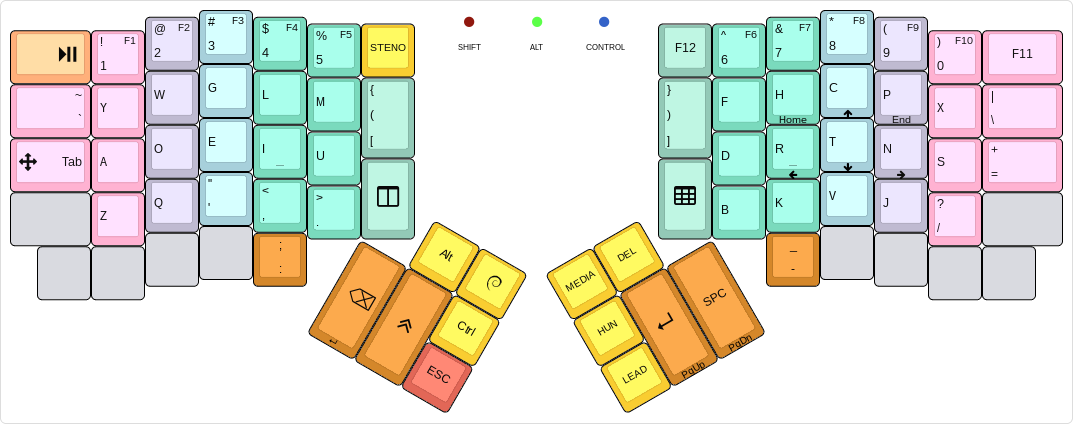
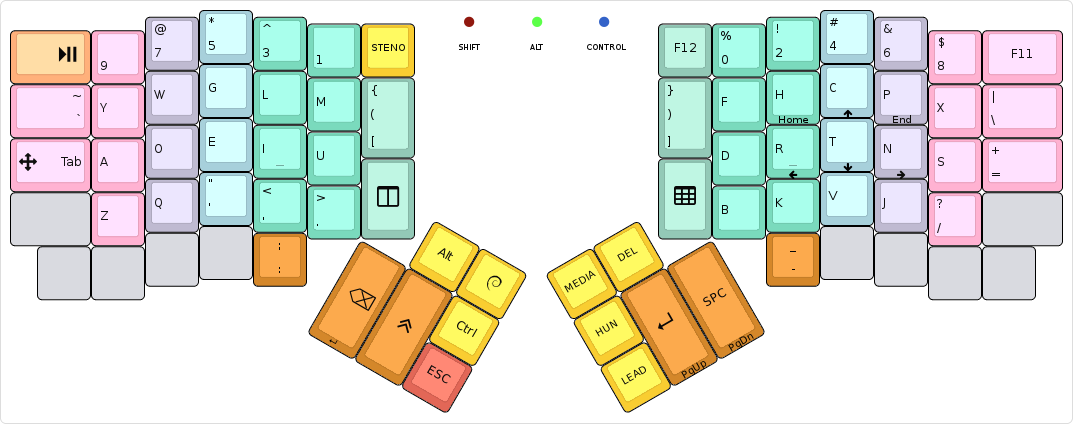
ADORE: Number/symbol row rearrangement
Rearranged both the numbers and the symbols for easier, better access.
While not final, this fixes #89.

diff --git a/keymap.c b/keymap.c
@@ -64,6 +64,18 @@ enum {
   HU_UE, // Ü
   HU_OEE, // Ő
   HU_UEE, // Ű
+
+  // number/symbol keys
+  A_1, // 1
+  A_2, // 2
+  A_3, // ...
+  A_4,
+  A_5,
+  A_6,
+  A_7,
+  A_8,
+  A_9,
+  A_0,
 };
 
 /* Fn keys */
@@ -115,6 +127,8 @@ bool log_enable = false;
 #endif
 
 bool time_travel = false;
+
+static uint8_t is_adore = 0;
 
 /* The Keymap */
 
@@ -168,7 +182,7 @@ const uint16_t PROGMEM keymaps[][MATRIX_ROWS][MATRIX_COLS] = {
 /* Keymap 1: Adore layer
  *
  * ,-----------------------------------------------------.           ,-----------------------------------------------------.
- * | Play/Pause| 1 F1 | 2 F2 | 3 F3 | 4 F4 | 5 F5 | Plvr |           |  F12 | 6 F6 | 7 F7 | 8 F8 | 9 F9 | 0 F10|       F11 |
+ * | Play/Pause| 9    | 7  @ | 5  * | 3  ^ | 1    | Plvr |           |  F12 | 0  % | 2  ! | 4  # | 6  & | 8  $ |       F11 |
  * |-----------+------+------+------+------+-------------|           |------+------+------+------+------+------+-----------|
  * |        `~ |   Y  |   W  |   G  |   L  |   M  |   (  |           |  )   |   F  |   H  |   C  |   P  |  X   | \         |
  * |-----------+------+------+------+------+------|   [  |           |  ]   |------+------+------+------+------+-----------|
@@ -188,7 +202,7 @@ const uint16_t PROGMEM keymaps[][MATRIX_ROWS][MATRIX_COLS] = {
  */
 [ADORE] = KEYMAP(
 // left hand
- KC_MPLY            ,TD(KF_1)    ,TD(KF_2)    ,TD(KF_3),TD(KF_4),TD(KF_5),M(A_PLVR)
+ KC_MPLY            ,M(A_9)      ,M(A_7)      ,M(A_5)  ,M(A_3)  ,M(A_1) ,M(A_PLVR)
 ,KC_GRV             ,KC_Y        ,KC_W        ,KC_G    ,KC_L    ,KC_M   ,TD(CT_LBP)
 ,TD(CT_TA)          ,KC_A        ,KC_O        ,KC_E    ,KC_I    ,KC_U
 ,KC_NO              ,KC_Z        ,KC_Q        ,KC_QUOT ,KC_COMM ,KC_DOT ,TD(CT_TMUX)
@@ -199,11 +213,11 @@ const uint16_t PROGMEM keymaps[][MATRIX_ROWS][MATRIX_COLS] = {
                                                     ,KC_BSPC,F(F_SFT),KC_ESC
 
                                                                 // right hand
-                                                               ,KC_F12    ,TD(KF_6),TD(KF_7),TD(KF_8),TD(KF_9),TD(KF_10),KC_F11
-                                                               ,TD(CT_RBP),KC_F    ,KC_H    ,KC_C    ,KC_P    ,KC_X     ,KC_BSLS
-                                                                          ,KC_D    ,KC_R    ,KC_T    ,KC_N    ,KC_S     ,KC_EQL
-                                                               ,TD(CT_TPS),KC_B    ,KC_K    ,KC_V    ,KC_J    ,KC_SLSH  ,KC_NO
-                                                                                   ,KC_MINS ,KC_NO   ,KC_NO   ,KC_NO    ,KC_NO
+                                                               ,KC_F12    ,M(A_0)   ,M(A_2)  ,M(A_4)  ,M(A_6)  ,M(A_8)  ,KC_F11
+                                                               ,TD(CT_RBP),KC_F     ,KC_H    ,KC_C    ,KC_P    ,KC_X    ,KC_BSLS
+                                                                          ,KC_D     ,KC_R    ,KC_T    ,KC_N    ,KC_S    ,KC_EQL
+                                                               ,TD(CT_TPS),KC_B     ,KC_K    ,KC_V    ,KC_J    ,KC_SLSH ,KC_NO
+                                                                                    ,KC_MINS ,KC_NO   ,KC_NO   ,KC_NO   ,KC_NO
 
                                                                ,OSL(NMDIA),KC_DEL
                                                                ,F(F_HUN)
@@ -520,6 +534,62 @@ static struct {
   uint8_t idx;
 } m_accel_state;
 
+static void ang_handle_num_row(uint8_t id, keyrecord_t *record) {
+  uint8_t kc;
+
+  if (!is_adore) {
+    kc = id - A_1 + KC_1;
+  } else {
+    bool shifted = false;
+
+    if (keyboard_report->mods & MOD_BIT(KC_LSFT) ||
+        ((get_oneshot_mods() & MOD_BIT(KC_LSFT)) && !has_oneshot_mods_timed_out())) {
+      shifted = true;
+    }
+
+    if (!shifted) {
+      kc = id - A_1 + KC_1;
+    } else {
+      switch (id) {
+      case A_1:
+      case A_9:
+        return;
+      case A_7:
+        kc = KC_2;
+        break;
+      case A_5:
+        kc = KC_8;
+        break;
+      case A_3:
+        kc = KC_6;
+        break;
+
+      case A_0:
+        kc = KC_5;
+        break;
+      case A_2:
+        kc = KC_1;
+        break;
+      case A_4:
+        kc = KC_3;
+        break;
+      case A_6:
+        kc = KC_7;
+        break;
+      case A_8:
+        kc = KC_4;
+        break;
+      }
+    }
+  }
+
+  if (record->event.pressed) {
+    register_code (kc);
+  } else {
+    unregister_code (kc);
+  }
+}
+
 const macro_t *action_get_macro(keyrecord_t *record, uint8_t id, uint8_t opt)
 {
       switch(id) {
@@ -672,12 +742,15 @@ const macro_t *action_get_macro(keyrecord_t *record, uint8_t id, uint8_t opt)
 
       case APP_MSIC:
         return MACRODOWN(I(25), T(R), T(H), T(Y), T(T), T(H), T(M), T(B), T(O), T(X), T(ENT), END);
+
+        // number row and symbols
+      case A_1 ... A_0:
+        ang_handle_num_row(id, record);
+        break;
       }
 
       return MACRO_NONE;
 };
-
-static uint8_t is_adore = 0;
 
 // Runs just one time when the keyboard initializes.
 void matrix_init_user(void) {

diff --git a/tools/text-to-log.py b/tools/text-to-log.py
@@ -4,16 +4,16 @@ import os
 import sys
 
 charmap = {
-    '1': [[1, 0]], '!': [[2, 5], [1, 0]],
-    '2': [[2, 0]], '@': [[2, 5], [2, 0]],
-    '3': [[3, 0]], '#': [[2, 5], [3, 0]],
-    '4': [[4, 0]], '$': [[2, 5], [4, 0]],
-    '5': [[5, 0]], '%': [[2, 5], [5, 0]],
-    '6': [[8, 0]], '^': [[2, 5], [8, 0]],
-    '7': [[9, 0]], '&': [[2, 5], [9, 0]],
-    '8': [[10, 0]], '*': [[2, 5], [10, 0]],
-    '9': [[11, 0]],
-    '0': [[12, 0]],
+    '9': [[1, 0]],
+    '7': [[2, 0]], '@': [[2, 5], [2, 0]],
+    '5': [[3, 0]], '*': [[2, 5], [3, 0]],
+    '3': [[4, 0]], '^': [[2, 5], [4, 0]],
+    '1': [[5, 0]],
+    '0': [[8, 0]], '%': [[2, 5], [8, 0]],
+    '2': [[9, 0]], '!': [[2, 5], [9, 0]],
+    '4': [[10, 0]], '#': [[2, 5], [10, 0]],
+    '6': [[11, 0]], '&': [[2, 5], [11, 0]],
+    '8': [[12, 0]], '$': [[2, 5], [12, 0]],
 
     '`': [[0, 1]], '~': [[2, 5], [0, 1]],
     'y': [[1, 1]], 'Y': [[2, 5], [1, 1]],

diff --git a/readme.md b/readme.md
@@ -171,6 +171,10 @@ The keymap default to forcing NKRO, which seems to upset Windows, and except the
 * The `:`/`;` and `-`/`_` keys were put back to their thumb position on the bottom row, on both the [Base](#base-layer) and [ADORE](#adore-layer) layers.
 * The bottom large keys on the inner side of each half now function as [tmux](http://tmux.github.io/) keys: the left to send the prefix, the right to send the `display-panes` key. The left also doubles as a GNU screen prefix key, and sends `C-a` when double tapped.
 
+### ADORE
+
+* The number/symbol row has been rearranged, and they do not function as tap-dance keys anymore.
+
 ### Heatmap
 
 * Fixed a few issues in the finger-stats calculation.
